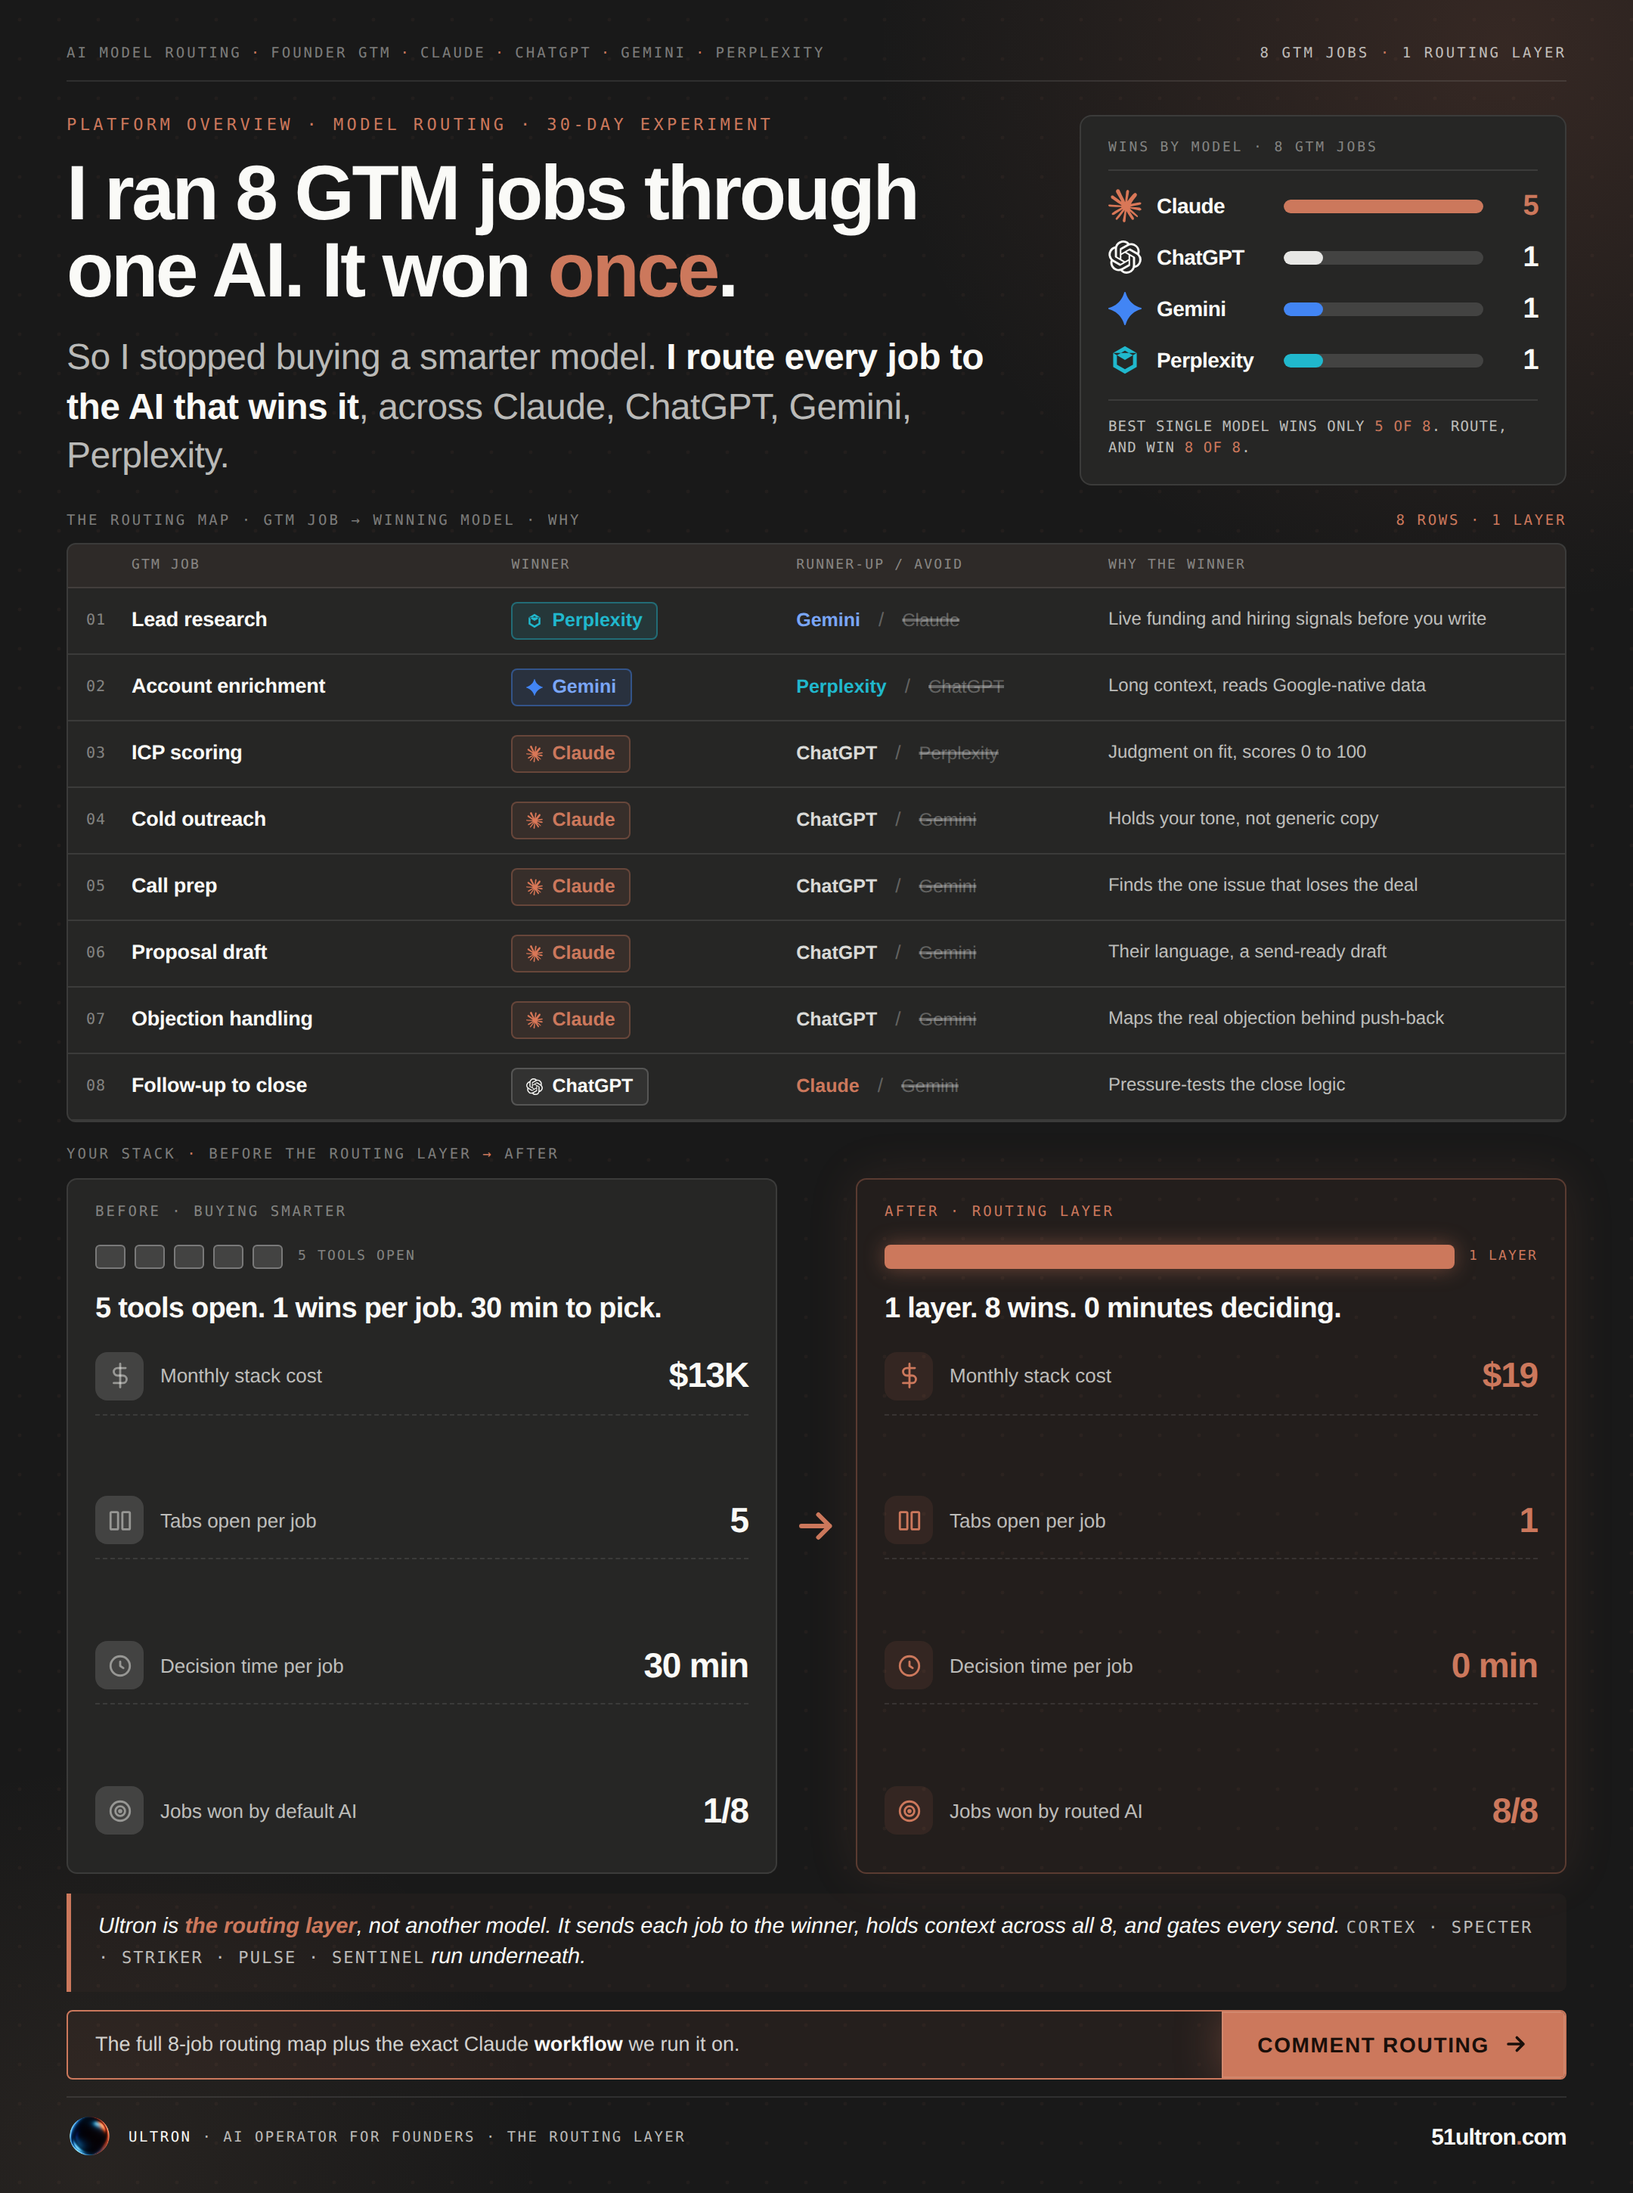
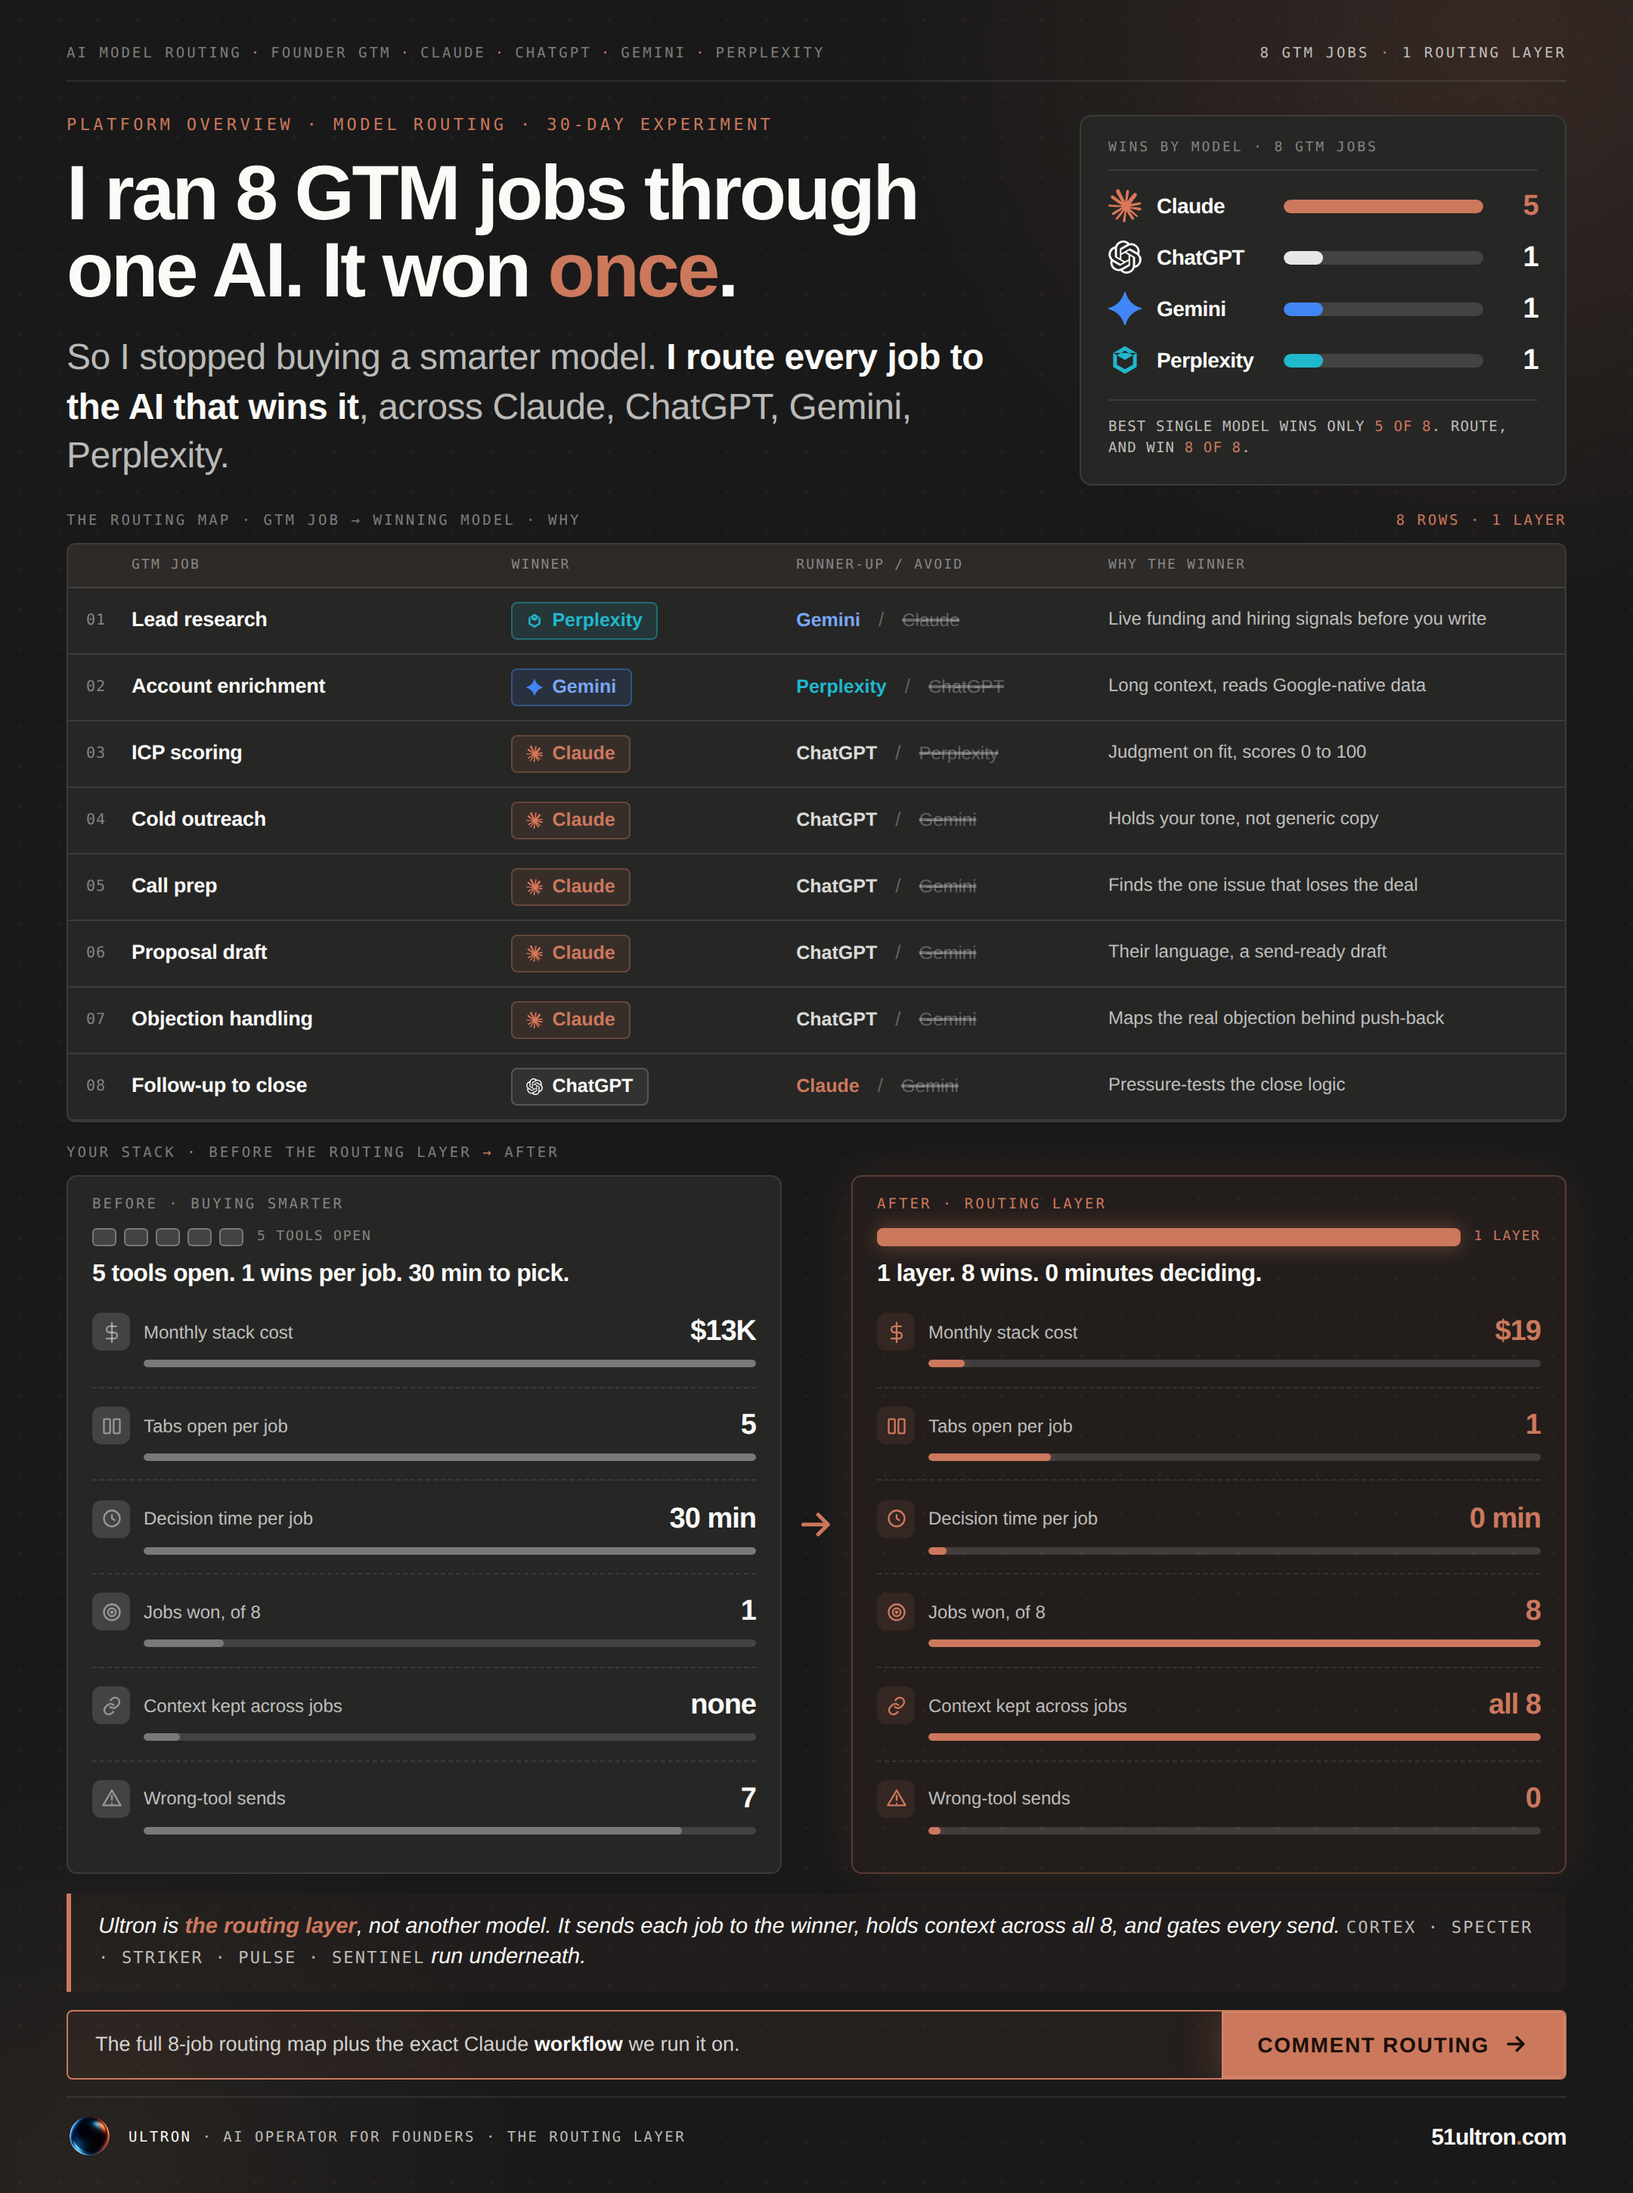
docs-02 v3: densify before/after cards (fix only these 2 boxes)
- 4 sparse rows -> 6 even dense rows (add Context-kept + Wrong-tool-sends)
- per-row mini progress bar (visual element / diagram) fills the inter-row space
- removed justify-content:space-between (the source of the centered gaps)
- now matches the density of the routing table; still 1080x1450

diff --git a/content/docs-02-platform-overview-linkedin-v3.html b/content/docs-02-platform-overview-linkedin-v3.html
@@ -80,33 +80,37 @@ body{background:#0d0d0d;font-family:'DM Sans',Arial,sans-serif;color:var(--ivory
 .sl{color:var(--ink-30);margin:0 5px;}
 .rg-avoid{text-decoration:line-through;text-decoration-thickness:1.5px;color:var(--ink-30);font-size:12px;}
 
-/* COMPARE - before/after with icons + visual motif */
-.compare-sec{flex-grow:1;min-height:0;margin-top:16px;display:flex;flex-direction:column;}
-.compare-hdr{font-family:'DM Mono',monospace;font-size:9.5px;font-weight:500;letter-spacing:.16em;text-transform:uppercase;color:var(--ink-46);margin-bottom:10px;}
+/* COMPARE - dense before/after: per-row icons + bars, 6 even rows, no inter-row gaps */
+.compare-sec{flex-grow:1;min-height:0;margin-top:15px;display:flex;flex-direction:column;}
+.compare-hdr{font-family:'DM Mono',monospace;font-size:9.5px;font-weight:500;letter-spacing:.16em;text-transform:uppercase;color:var(--ink-46);margin-bottom:9px;}
 .compare-hdr em{color:var(--book);font-style:normal;}
-.compare-grid{flex:1;display:grid;grid-template-columns:1fr 52px 1fr;gap:0;align-items:stretch;}
-.cmp-side{border:1px solid var(--rule);border-radius:7px;background:var(--slate-med);padding:16px 18px;display:flex;flex-direction:column;}
+.compare-grid{flex:1;display:grid;grid-template-columns:1fr 46px 1fr;gap:0;align-items:stretch;}
+.cmp-side{border:1px solid var(--rule);border-radius:7px;background:var(--slate-med);padding:13px 16px;display:flex;flex-direction:column;}
 .cmp-side.after{border-color:var(--book-bd);background:rgba(204,120,92,.06);box-shadow:0 0 34px rgba(204,120,92,.12);}
 .cmp-eye{font-family:'DM Mono',monospace;font-size:9.5px;font-weight:500;letter-spacing:.16em;text-transform:uppercase;color:var(--ink-46);}
 .cmp-side.after .cmp-eye{color:var(--book);}
-.cmp-viz{display:flex;align-items:center;gap:6px;height:24px;margin:12px 0 4px;}
-.cmp-viz .tool{width:20px;height:16px;border-radius:3px;background:var(--ink-14);border:1px solid var(--ink-30);}
-.cmp-viz .layer{height:16px;flex:1;border-radius:4px;background:var(--book);box-shadow:0 0 14px rgba(204,120,92,.45);}
-.cmp-viz .vlab{font-family:'DM Mono',monospace;font-size:9px;letter-spacing:.12em;text-transform:uppercase;color:var(--ink-46);margin-left:4px;}
+.cmp-viz{display:flex;align-items:center;gap:5px;height:15px;margin:9px 0 6px;}
+.cmp-viz .tool{width:16px;height:12px;border-radius:3px;background:var(--ink-14);border:1px solid var(--ink-30);}
+.cmp-viz .layer{height:12px;flex:1;border-radius:4px;background:var(--book);box-shadow:0 0 14px rgba(204,120,92,.45);}
+.cmp-viz .vlab{font-family:'DM Mono',monospace;font-size:9px;letter-spacing:.1em;text-transform:uppercase;color:var(--ink-46);margin-left:4px;}
 .cmp-side.after .cmp-viz .vlab{color:var(--book);}
-.cmp-headline{font-weight:900;font-size:19px;color:var(--ivory-light);line-height:1.16;letter-spacing:-.02em;margin:8px 0 4px;}
-.cmp-rows{display:flex;flex-direction:column;flex:1;justify-content:space-between;margin-top:4px;}
-.cmp-row{display:flex;align-items:center;gap:11px;padding:9px 0;border-bottom:1px dashed var(--rule);}
-.cmp-row:last-child{border-bottom:none;}
-.cmp-ic{width:32px;height:32px;border-radius:8px;flex-shrink:0;display:flex;align-items:center;justify-content:center;background:var(--ink-14);}
+.cmp-headline{font-weight:900;font-size:16px;color:var(--ivory-light);line-height:1.16;letter-spacing:-.02em;margin:2px 0 4px;}
+.cmp-rows{display:flex;flex-direction:column;flex:1;}
+.cmp-row{flex:1;display:flex;flex-direction:column;justify-content:center;gap:6px;border-top:1px dashed var(--rule);}
+.cmp-row:first-child{border-top:none;}
+.cmp-row-top{display:flex;align-items:center;gap:9px;}
+.cmp-ic{width:25px;height:25px;border-radius:6px;flex-shrink:0;display:flex;align-items:center;justify-content:center;background:var(--ink-14);}
 .cmp-side.after .cmp-ic{background:var(--book-lo);}
-.cmp-ic svg{width:17px;height:17px;fill:none;stroke:var(--ink-46);stroke-width:2;stroke-linecap:round;stroke-linejoin:round;}
+.cmp-ic svg{width:14px;height:14px;fill:none;stroke:var(--ink-46);stroke-width:2;stroke-linecap:round;stroke-linejoin:round;}
 .cmp-side.after .cmp-ic svg{stroke:var(--book);}
-.cmp-row-l{flex:1;color:var(--ink-70);font-size:13px;font-weight:500;}
-.cmp-row-r{font-weight:900;font-size:23px;color:var(--ivory-light);letter-spacing:-.6px;line-height:1;}
+.cmp-row-l{flex:1;color:var(--ink-70);font-size:12px;font-weight:500;}
+.cmp-row-r{font-weight:900;font-size:19px;color:var(--ivory-light);letter-spacing:-.5px;line-height:1;}
 .cmp-side.after .cmp-row-r{color:var(--book);}
+.cmp-bar{height:5px;border-radius:3px;background:var(--ink-14);overflow:hidden;margin-left:34px;}
+.cmp-bar-fill{height:100%;border-radius:3px;background:var(--ink-30);}
+.cmp-side.after .cmp-bar-fill{background:var(--book);box-shadow:0 0 8px rgba(204,120,92,.4);}
 .cmp-arrow{display:flex;align-items:center;justify-content:center;}
-.cmp-arrow svg{width:30px;height:30px;stroke:var(--book);stroke-width:2.4;fill:none;stroke-linecap:round;stroke-linejoin:round;}
+.cmp-arrow svg{width:26px;height:26px;stroke:var(--book);stroke-width:2.4;fill:none;stroke-linecap:round;stroke-linejoin:round;}
 
 .italic-block{flex-shrink:0;margin-top:13px;padding:12px 18px;border-left:3px solid var(--book);background:rgba(204,120,92,.04);border-radius:0 5px 5px 0;}
 .ib-txt{font-weight:500;font-size:14.5px;color:var(--ivory-light);line-height:1.4;font-style:italic;}
@@ -218,10 +222,12 @@ body{background:#0d0d0d;font-family:'DM Sans',Arial,sans-serif;color:var(--ivory
       <div class="cmp-viz"><span class="tool"></span><span class="tool"></span><span class="tool"></span><span class="tool"></span><span class="tool"></span><span class="vlab">5 tools open</span></div>
       <div class="cmp-headline">5 tools open. 1 wins per job. 30 min to pick.</div>
       <div class="cmp-rows">
-        <div class="cmp-row"><div class="cmp-ic"><svg viewBox="0 0 24 24"><path d="M12 1v22"/><path d="M17 5H9.5a3.5 3.5 0 0 0 0 7h5a3.5 3.5 0 0 1 0 7H6"/></svg></div><div class="cmp-row-l">Monthly stack cost</div><div class="cmp-row-r">$13K</div></div>
-        <div class="cmp-row"><div class="cmp-ic"><svg viewBox="0 0 24 24"><rect x="3" y="4" width="7" height="16" rx="1"/><rect x="14" y="4" width="7" height="16" rx="1"/></svg></div><div class="cmp-row-l">Tabs open per job</div><div class="cmp-row-r">5</div></div>
-        <div class="cmp-row"><div class="cmp-ic"><svg viewBox="0 0 24 24"><circle cx="12" cy="12" r="9"/><path d="M12 8v4l3 2"/></svg></div><div class="cmp-row-l">Decision time per job</div><div class="cmp-row-r">30 min</div></div>
-        <div class="cmp-row"><div class="cmp-ic"><svg viewBox="0 0 24 24"><circle cx="12" cy="12" r="9"/><circle cx="12" cy="12" r="4.5"/><circle cx="12" cy="12" r="1"/></svg></div><div class="cmp-row-l">Jobs won by default AI</div><div class="cmp-row-r">1/8</div></div>
+        <div class="cmp-row"><div class="cmp-row-top"><div class="cmp-ic"><svg viewBox="0 0 24 24"><path d="M12 1v22"/><path d="M17 5H9.5a3.5 3.5 0 0 0 0 7h5a3.5 3.5 0 0 1 0 7H6"/></svg></div><div class="cmp-row-l">Monthly stack cost</div><div class="cmp-row-r">$13K</div></div><div class="cmp-bar"><div class="cmp-bar-fill" style="width:100%"></div></div></div>
+        <div class="cmp-row"><div class="cmp-row-top"><div class="cmp-ic"><svg viewBox="0 0 24 24"><rect x="3" y="4" width="7" height="16" rx="1"/><rect x="14" y="4" width="7" height="16" rx="1"/></svg></div><div class="cmp-row-l">Tabs open per job</div><div class="cmp-row-r">5</div></div><div class="cmp-bar"><div class="cmp-bar-fill" style="width:100%"></div></div></div>
+        <div class="cmp-row"><div class="cmp-row-top"><div class="cmp-ic"><svg viewBox="0 0 24 24"><circle cx="12" cy="12" r="9"/><path d="M12 8v4l3 2"/></svg></div><div class="cmp-row-l">Decision time per job</div><div class="cmp-row-r">30 min</div></div><div class="cmp-bar"><div class="cmp-bar-fill" style="width:100%"></div></div></div>
+        <div class="cmp-row"><div class="cmp-row-top"><div class="cmp-ic"><svg viewBox="0 0 24 24"><circle cx="12" cy="12" r="9"/><circle cx="12" cy="12" r="4.5"/><circle cx="12" cy="12" r="1"/></svg></div><div class="cmp-row-l">Jobs won, of 8</div><div class="cmp-row-r">1</div></div><div class="cmp-bar"><div class="cmp-bar-fill" style="width:13%"></div></div></div>
+        <div class="cmp-row"><div class="cmp-row-top"><div class="cmp-ic"><svg viewBox="0 0 24 24"><path d="M10 13a5 5 0 0 0 7.07 0l2-2a5 5 0 1 0-7.07-7.07l-1.5 1.5"/><path d="M14 11a5 5 0 0 0-7.07 0l-2 2a5 5 0 1 0 7.07 7.07l1.5-1.5"/></svg></div><div class="cmp-row-l">Context kept across jobs</div><div class="cmp-row-r">none</div></div><div class="cmp-bar"><div class="cmp-bar-fill" style="width:6%"></div></div></div>
+        <div class="cmp-row"><div class="cmp-row-top"><div class="cmp-ic"><svg viewBox="0 0 24 24"><path d="M12 3L2 20h20L12 3z"/><path d="M12 9v5"/><path d="M12 18h.01"/></svg></div><div class="cmp-row-l">Wrong-tool sends</div><div class="cmp-row-r">7</div></div><div class="cmp-bar"><div class="cmp-bar-fill" style="width:88%"></div></div></div>
       </div>
     </div>
     <div class="cmp-arrow"><svg viewBox="0 0 24 24"><path d="M4 12h15M13 6l6 6-6 6"/></svg></div>
@@ -230,10 +236,12 @@ body{background:#0d0d0d;font-family:'DM Sans',Arial,sans-serif;color:var(--ivory
       <div class="cmp-viz"><span class="layer"></span><span class="vlab">1 layer</span></div>
       <div class="cmp-headline">1 layer. 8 wins. 0 minutes deciding.</div>
       <div class="cmp-rows">
-        <div class="cmp-row"><div class="cmp-ic"><svg viewBox="0 0 24 24"><path d="M12 1v22"/><path d="M17 5H9.5a3.5 3.5 0 0 0 0 7h5a3.5 3.5 0 0 1 0 7H6"/></svg></div><div class="cmp-row-l">Monthly stack cost</div><div class="cmp-row-r">$19</div></div>
-        <div class="cmp-row"><div class="cmp-ic"><svg viewBox="0 0 24 24"><rect x="3" y="4" width="7" height="16" rx="1"/><rect x="14" y="4" width="7" height="16" rx="1"/></svg></div><div class="cmp-row-l">Tabs open per job</div><div class="cmp-row-r">1</div></div>
-        <div class="cmp-row"><div class="cmp-ic"><svg viewBox="0 0 24 24"><circle cx="12" cy="12" r="9"/><path d="M12 8v4l3 2"/></svg></div><div class="cmp-row-l">Decision time per job</div><div class="cmp-row-r">0 min</div></div>
-        <div class="cmp-row"><div class="cmp-ic"><svg viewBox="0 0 24 24"><circle cx="12" cy="12" r="9"/><circle cx="12" cy="12" r="4.5"/><circle cx="12" cy="12" r="1"/></svg></div><div class="cmp-row-l">Jobs won by routed AI</div><div class="cmp-row-r">8/8</div></div>
+        <div class="cmp-row"><div class="cmp-row-top"><div class="cmp-ic"><svg viewBox="0 0 24 24"><path d="M12 1v22"/><path d="M17 5H9.5a3.5 3.5 0 0 0 0 7h5a3.5 3.5 0 0 1 0 7H6"/></svg></div><div class="cmp-row-l">Monthly stack cost</div><div class="cmp-row-r">$19</div></div><div class="cmp-bar"><div class="cmp-bar-fill" style="width:6%"></div></div></div>
+        <div class="cmp-row"><div class="cmp-row-top"><div class="cmp-ic"><svg viewBox="0 0 24 24"><rect x="3" y="4" width="7" height="16" rx="1"/><rect x="14" y="4" width="7" height="16" rx="1"/></svg></div><div class="cmp-row-l">Tabs open per job</div><div class="cmp-row-r">1</div></div><div class="cmp-bar"><div class="cmp-bar-fill" style="width:20%"></div></div></div>
+        <div class="cmp-row"><div class="cmp-row-top"><div class="cmp-ic"><svg viewBox="0 0 24 24"><circle cx="12" cy="12" r="9"/><path d="M12 8v4l3 2"/></svg></div><div class="cmp-row-l">Decision time per job</div><div class="cmp-row-r">0 min</div></div><div class="cmp-bar"><div class="cmp-bar-fill" style="width:3%"></div></div></div>
+        <div class="cmp-row"><div class="cmp-row-top"><div class="cmp-ic"><svg viewBox="0 0 24 24"><circle cx="12" cy="12" r="9"/><circle cx="12" cy="12" r="4.5"/><circle cx="12" cy="12" r="1"/></svg></div><div class="cmp-row-l">Jobs won, of 8</div><div class="cmp-row-r">8</div></div><div class="cmp-bar"><div class="cmp-bar-fill" style="width:100%"></div></div></div>
+        <div class="cmp-row"><div class="cmp-row-top"><div class="cmp-ic"><svg viewBox="0 0 24 24"><path d="M10 13a5 5 0 0 0 7.07 0l2-2a5 5 0 1 0-7.07-7.07l-1.5 1.5"/><path d="M14 11a5 5 0 0 0-7.07 0l-2 2a5 5 0 1 0 7.07 7.07l1.5-1.5"/></svg></div><div class="cmp-row-l">Context kept across jobs</div><div class="cmp-row-r">all 8</div></div><div class="cmp-bar"><div class="cmp-bar-fill" style="width:100%"></div></div></div>
+        <div class="cmp-row"><div class="cmp-row-top"><div class="cmp-ic"><svg viewBox="0 0 24 24"><path d="M12 3L2 20h20L12 3z"/><path d="M12 9v5"/><path d="M12 18h.01"/></svg></div><div class="cmp-row-l">Wrong-tool sends</div><div class="cmp-row-r">0</div></div><div class="cmp-bar"><div class="cmp-bar-fill" style="width:2%"></div></div></div>
       </div>
     </div>
   </div>
